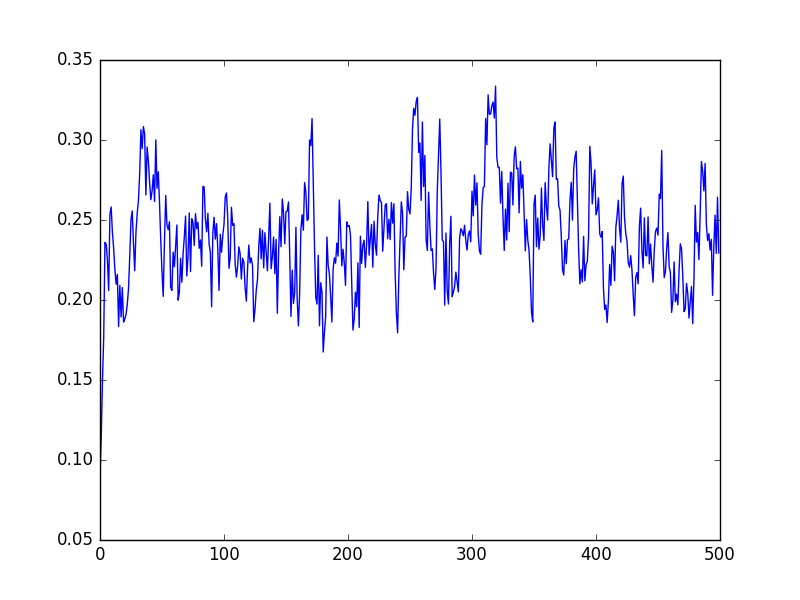
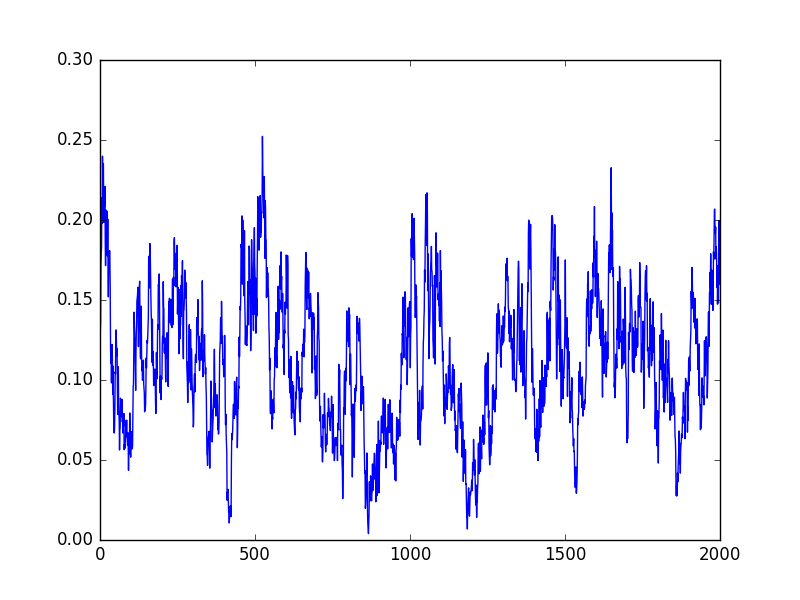
updates

diff --git a/gibbs_simulations.py b/gibbs_simulations.py
@@ -6,11 +6,11 @@ import random
 import matplotlib.pyplot as plt
 
 # GLOBAL Variables
-ITS = 500
-BURN = 20
+ITS = 2000
+BURN = 10
 M = 1000
-N1 = 10000
-N2 = 10000
+N1 = 5000
+N2 = 5000
 H1 = .99
 H2 = .99
 Ns = 0
@@ -144,7 +144,7 @@ def draw_c(a00, a10, a01, a11, c1, c2, gamma1, gamma2, z1, z2, debug=False):
     return c1, c2
 
 
-def draw_gamma(c1, c2, gamma1, gamma2, sigma_gamma, z1, z2, debug=False):
+def draw_gamma(gamma1, gamma2, sigma_gamma, z1, z2, debug=False):
     sigma_B1 = (1 - H1) / N1
     sigma_B2 = (1 - H2) / N2
 
@@ -250,9 +250,20 @@ def evaluate_gamma(gamma1_t, gamma2_t):
     print "Estimate: %f, Truth: %f" % (gamma1_med[3], GAMMA1[3])
     print "Estimate: %f, Truth: %f" % (gamma1_med[4], GAMMA1[4])
 
-    #plt.figure()
-    #plt.plot(range(0, ITS), gamma1_t[:, 0])
-    #plt.savefig('gamma1_snp1_plot.png')
+    plt.figure()
+    gamma1_t_mat = np.matrix(gamma1_t)
+    plt.plot(range(0, ITS), gamma1_t_mat[:, 0])
+    plt.savefig('gamma1_snp1_plot.png')
+
+    plt.figure()
+    gamma1_t_mat = np.matrix(gamma1_t)
+    plt.plot(range(0, ITS), gamma1_t_mat[:, 1])
+    plt.savefig('gamma1_snp2_plot.png')
+
+    plt.figure()
+    gamma1_t_mat = np.matrix(gamma1_t)
+    plt.plot(range(0, ITS), gamma1_t_mat[:, 2])
+    plt.savefig('gamma1_snp3_plot.png')
 
 def main():
 
@@ -280,7 +291,7 @@ def main():
 
         # draw from conditional distributions
         c1, c2 = draw_c(a00, a10, a01, a11, c1, c2, gamma1, gamma2, z1, z2, debug=False)
-        gamma1, gamma2 = draw_gamma(c1, c2, gamma1, gamma2, sigma_gamma, z1, z2, debug=False)
+        gamma1, gamma2 = draw_gamma(gamma1, gamma2, sigma_gamma, z1, z2, debug=False)
         sigma_gamma = draw_sigma_gamma(gamma1, gamma2, debug=False)
         a00, a10, a01, a11 = draw_a(c1, c2, debug=False)
 
@@ -293,8 +304,8 @@ def main():
         c2_t.append(c2.tolist())
         sigma_gamma_11_t.append(sigma_gamma[0, 0])
         sigma_gamma_22_t.append(sigma_gamma[1, 1])
-        gamma1_t.append(gamma1)
-        gamma2_t.append(gamma2)
+        gamma1_t.append(gamma1.tolist())
+        gamma2_t.append(gamma2.tolist())
 
     # evaluate accuracy
     evaluate_a(a00_t, a10_t, a01_t, a11_t)
